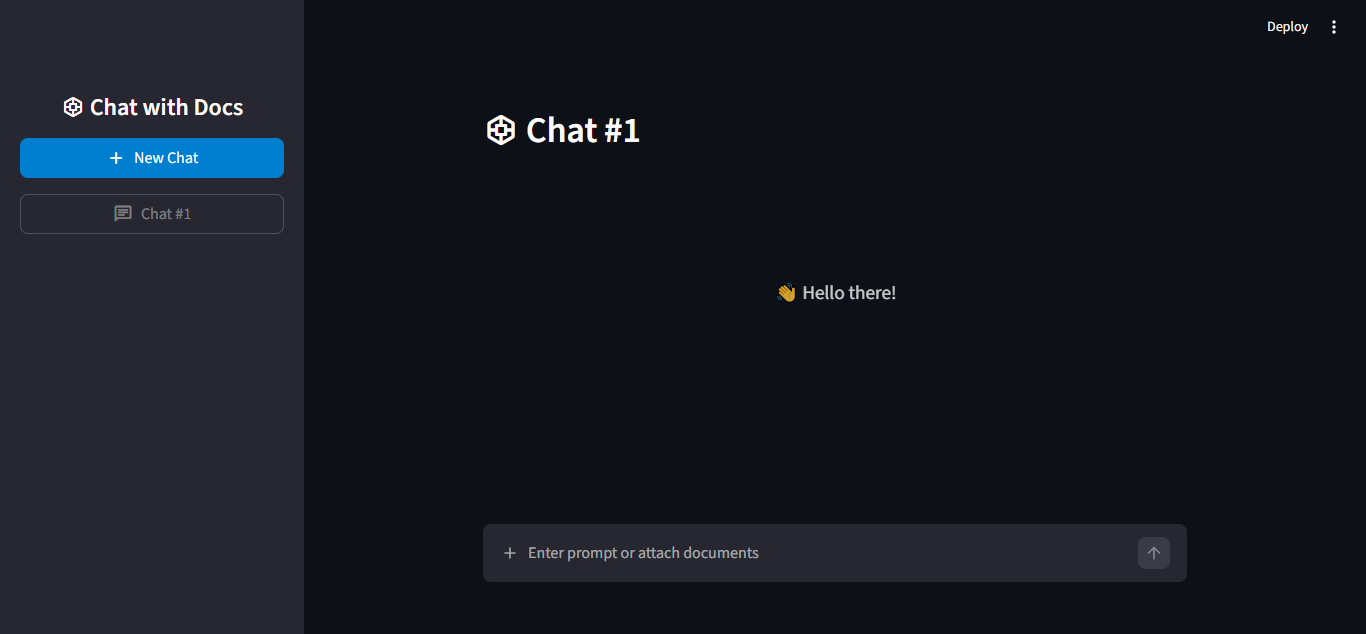
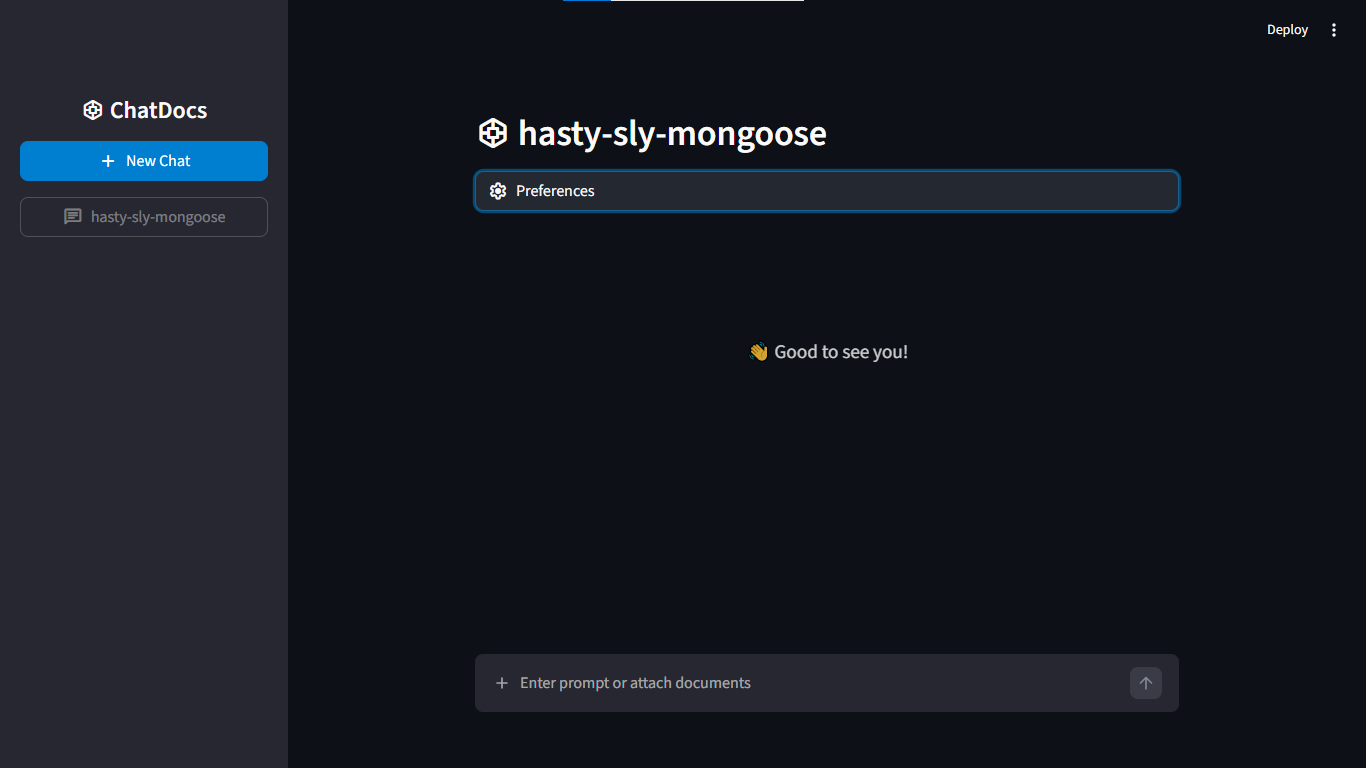
- greeting generated once not changed on clicks - formatted and added unit to file size

diff --git a/src/main.py b/src/main.py
@@ -1,7 +1,6 @@
 import streamlit as st
 from langchain_text_splitters import RecursiveCharacterTextSplitter
 from handle_files import handle_files
-from random import randint
 from typing import Tuple, Literal, Optional, Sequence
 from langchain_chroma import Chroma
 from langchain_ollama import ChatOllama
@@ -24,7 +23,7 @@ class Message:
 
 
 def main(llm: ChatOllama, vectorstore: Chroma):
-    st.set_page_config("Chat with Docs", page_icon=":material/borg:")
+    st.set_page_config("ChatDocs", page_icon=":material/borg:")
 
     chats = st.session_state["chats"]
     current_chat_id = st.session_state["current_chat_id"]
@@ -33,13 +32,36 @@ def main(llm: ChatOllama, vectorstore: Chroma):
 
     st.header(":material/borg: " + current_chat["name"])
 
+    # preferences
+    with st.expander("Preferences", icon=":material/settings:"):
+        left, right = st.columns(2)
+        with left:
+            st.selectbox("Model", ("gemma2:2b", "llama3.2"))
+        with right:
+            st.selectbox(
+                "Style",
+                (
+                    "Normal",
+                    "Professional, Polished, Precise",
+                    "Friendly, Warm, Chatty",
+                    "Efficient, Concise, Plain",
+                    "Candid, Direct, Encouraging",
+                    "Nerdy, Exploratory, Enthusiastic",
+                    "Quirky, Playful, Imaginative",
+                ),
+            )
+
+        left, right = st.columns(2)
+        with left:
+            st.slider("Temperature (Randomness/Creativity)", 0.0, 2.0, value=1.0, step=0.1, format="plain")
+        with right:
+            st.slider("Reasoning (Only supported in some models)", 0.0, 1.0, value=1.0, step=0.1, format="plain")
+
     greetings_div = st.empty()
 
     if len(current_chat_history) == 0:
-        greetings = ["Hey there!", "Greetings, user!", "Nice to meet you!", "Hello there!", "Good to see you!"]
-        greeting_msg = greetings[randint(0, len(greetings) - 1)]
         greetings_div.html(
-            f'<div style="display:flex;justify-content:center;align-items:center;min-height:min(calc(100vw/2),250px);margin-top:auto;opacity:0.8;font-size:1.2rem;">👋 {greeting_msg}</div>'
+            f'<div style="display:flex;justify-content:center;align-items:center;min-height:max(250px,100%);margin-top:auto;opacity:0.8;font-size:1.2rem;">{st.session_state["greeting_msg"]}</div>'
         )
     else:
         for item in current_chat_history:
@@ -48,8 +70,18 @@ def main(llm: ChatOllama, vectorstore: Chroma):
                     if item.files_info:
                         for filename, file_size, file_location, mime_type in item.files_info:
                             with open(file_location, "rb") as f:
+                                if file_size > 1_048_576:
+                                    file_size = file_size / 1_048_576
+                                    unit = "MB"
+                                elif file_size > 1024:
+                                    file_size = file_size / 1024
+                                    unit = "KB"
+                                else:
+                                    # file_size = file_size
+                                    unit = "B"
+
                                 st.download_button(
-                                    label=filename + " (" + str(file_size) + "KB)",
+                                    label=f"{filename} ({file_size:.1f} {unit})",
                                     data=f,
                                     file_name=filename,
                                     mime=mime_type,
@@ -118,7 +150,7 @@ def main(llm: ChatOllama, vectorstore: Chroma):
                         vectorstore.add_documents(chunks)
 
             if vectorstore._collection.count() > 0:
-                with st.status("Finding relevant context from vectorstore"):
+                with st.status("Finding relevant context"):
                     results = vectorstore.similarity_search(
                         query=final_prompt_text,
                         k=5,

diff --git a/src/app.py b/src/app.py
@@ -3,6 +3,7 @@ from sidebar import sidebar, generate_unique_name
 from main import main
 from uuid import uuid4
 import time
+from random import randint
 
 
 def session():
@@ -21,6 +22,11 @@ def session():
 
     if not "disabled" in st.session_state:
         st.session_state["disabled"] = False
+
+    if not "greeting_msg" in st.session_state:
+        greetings = ["Hey there!", "Greetings, user!", "Nice to meet you!", "Hello there!", "Good to see you!"]
+        greeting_msg = "👋 " + greetings[randint(0, len(greetings) - 1)]
+        st.session_state["greeting_msg"] = greeting_msg
 
 
 from langchain_ollama import ChatOllama

diff --git a/src/sidebar.py b/src/sidebar.py
@@ -12,7 +12,7 @@ def generate_unique_name():
 
 def sidebar():
     with st.sidebar:
-        st.title(":material/borg: Chat with Docs", text_alignment="center")
+        st.title(":material/borg: ChatDocs", text_alignment="center")
 
         new_chat_btn = st.button("New Chat", icon=":material/add:", width="stretch", type="primary")
 

diff --git a/README.md b/README.md
@@ -1,6 +1,6 @@
-# 🌀 Chat with Docs
+# 🌀 ChatDocs
 
-Chat with LLM, attach documents, create multiple chats!
+Chat with LLMs, attach documents, create multiple chats!
 
 ### TODOS:
 
